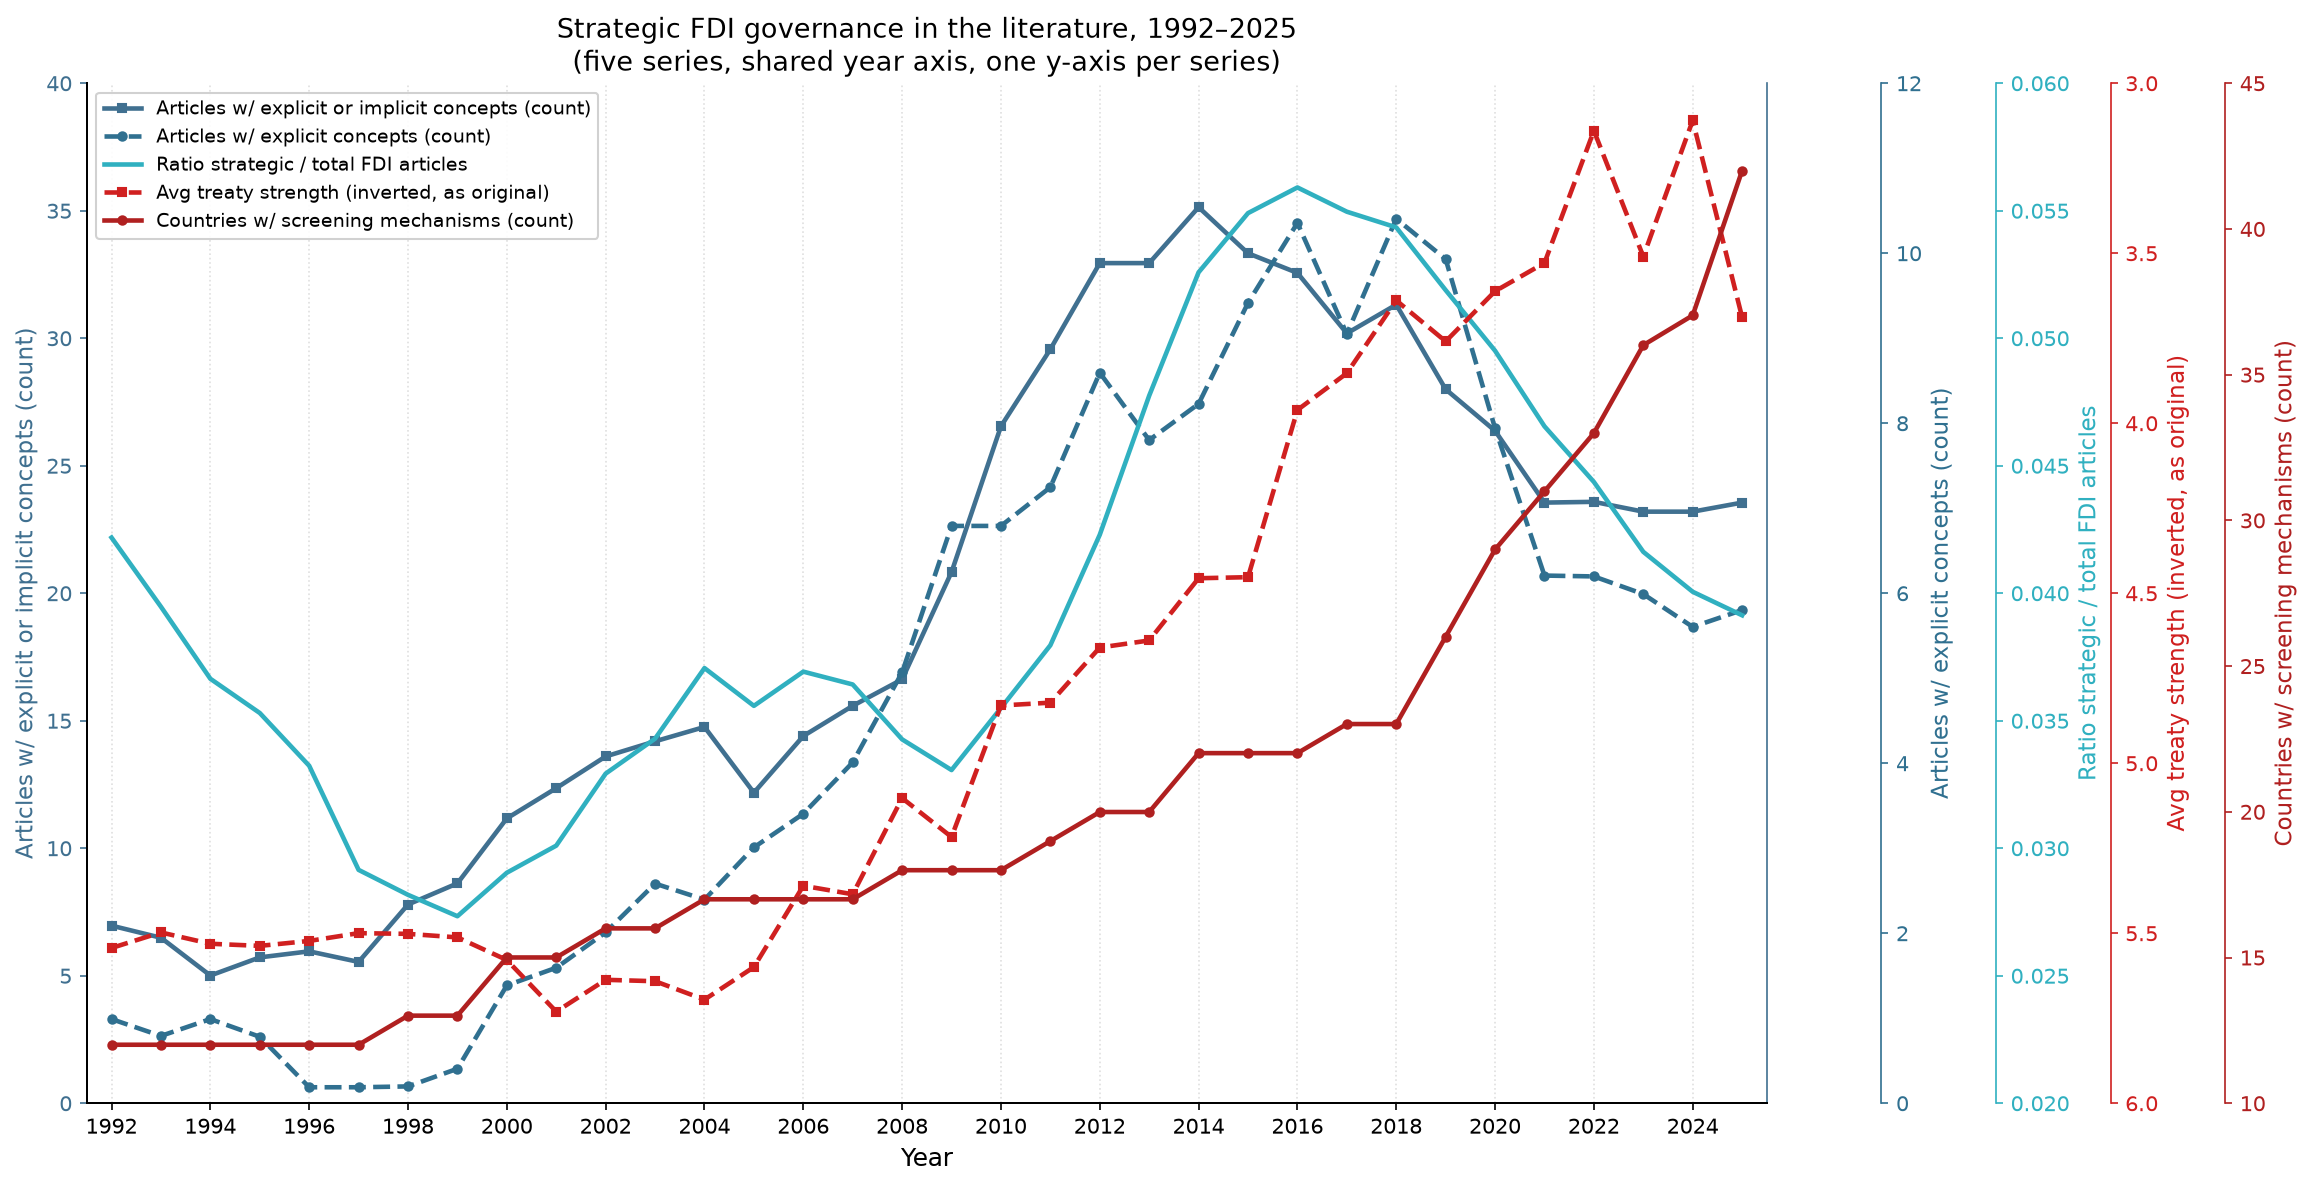
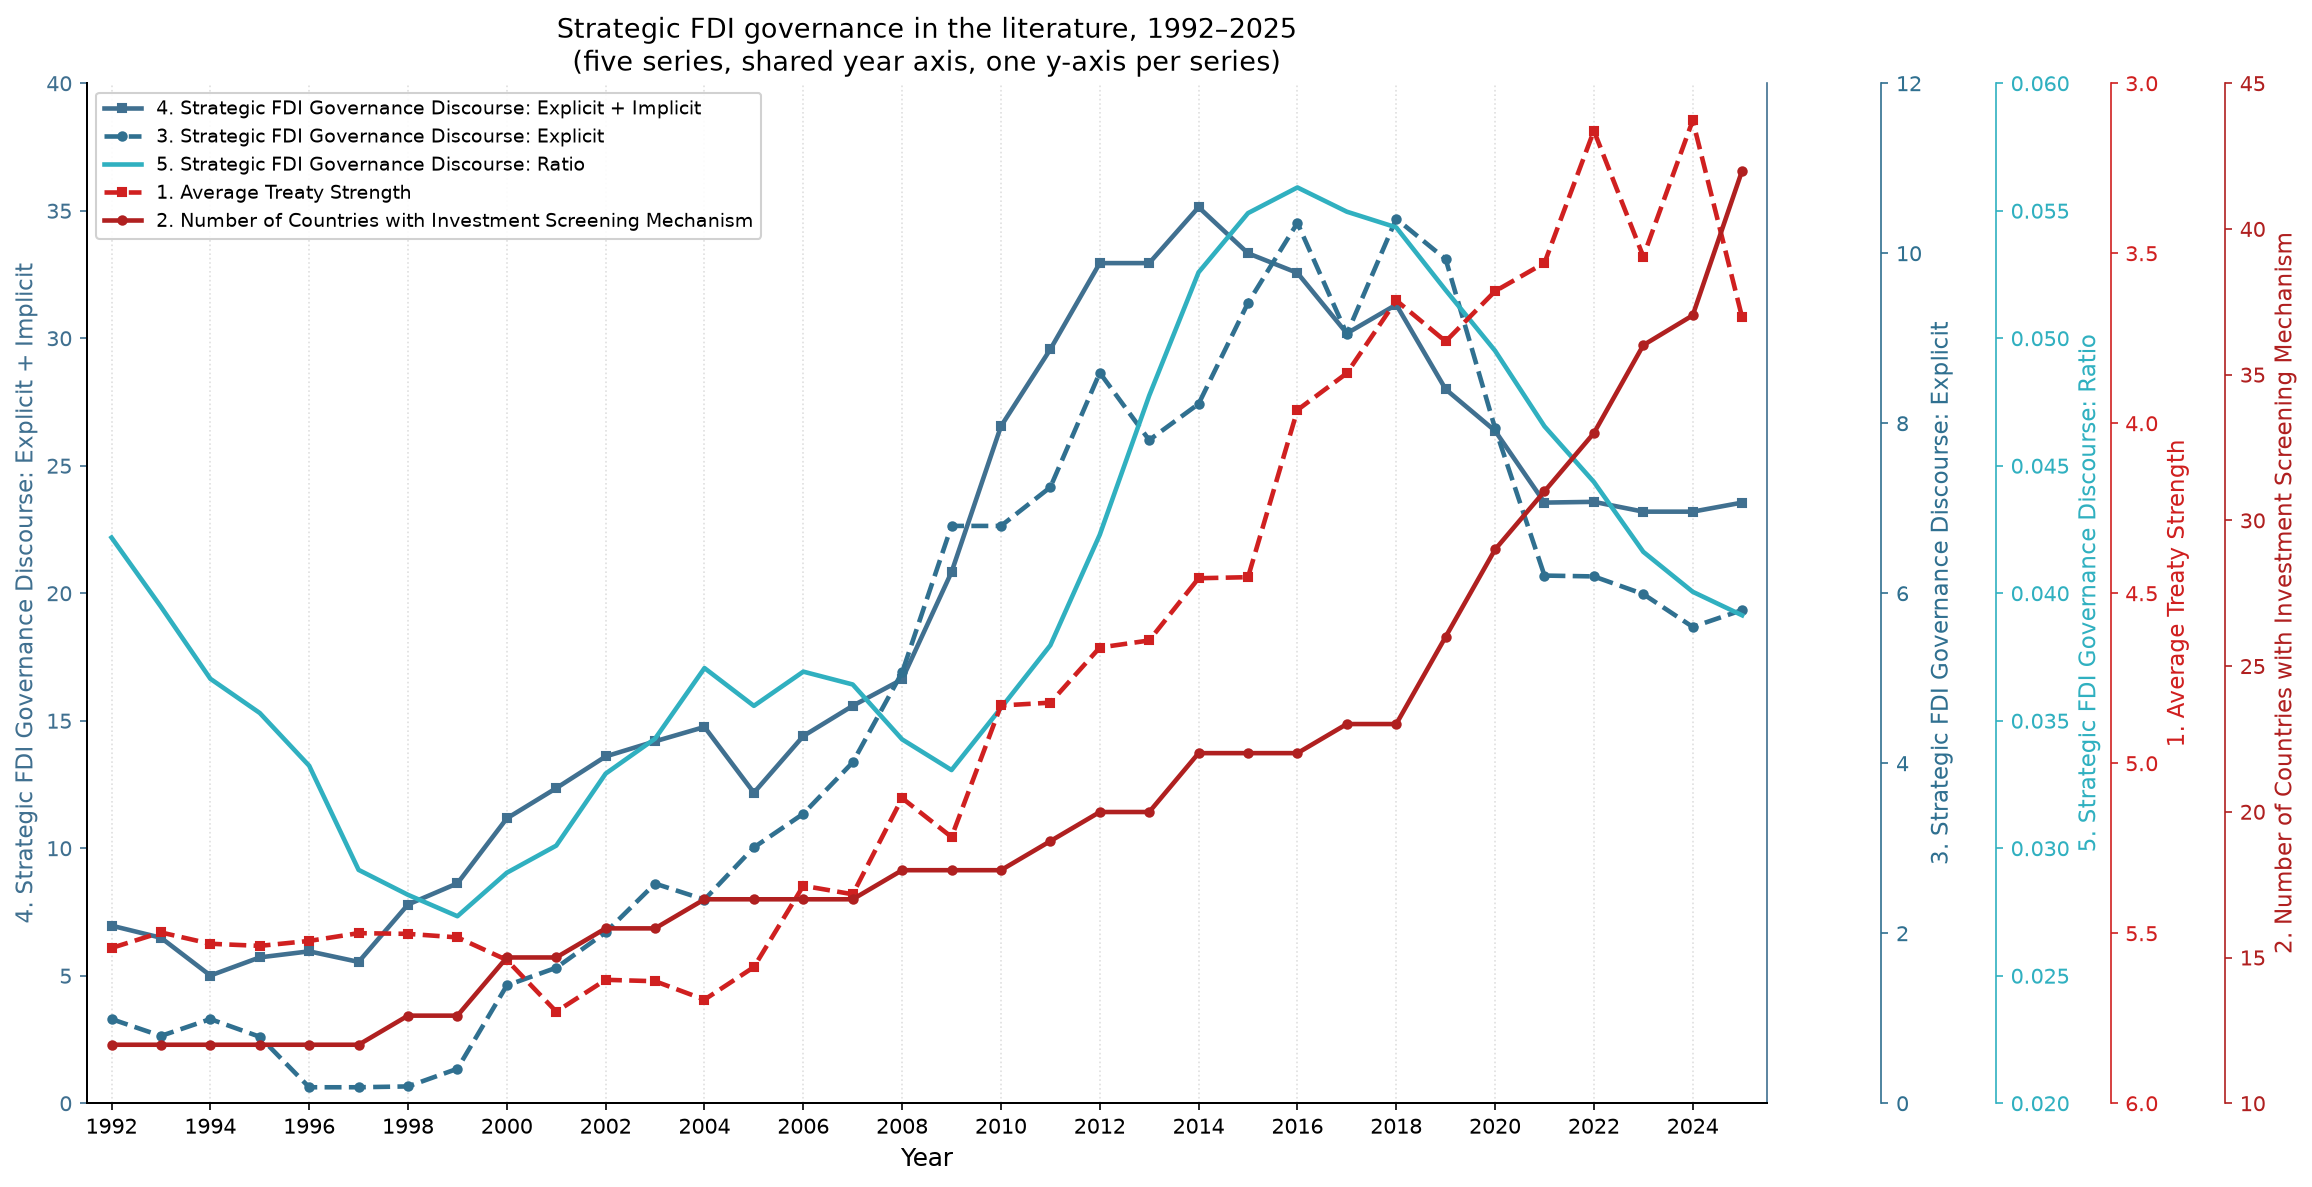
Rename y-axis and legend labels to numbered series names

diff --git a/plot_combined.py b/plot_combined.py
@@ -29,11 +29,11 @@ def plot_on(ax, key, label, linestyle, marker, ms):
     ax.tick_params(axis='y', colors=C[key])
     ax.spines['right'].set_color(C[key])
 
-plot_on(ax1, 'implicit', 'Articles w/ explicit or implicit concepts (count)', '-', 's', 4)
-plot_on(ax2, 'explicit', 'Articles w/ explicit concepts (count)', '--', 'o', 4)
-plot_on(ax3, 'ratio', 'Ratio strategic / total FDI articles', '-', '', 0)
-plot_on(ax4, 'treaty', 'Avg treaty strength (inverted, as original)', '--', 's', 4)
-plot_on(ax5, 'screening', 'Countries w/ screening mechanisms (count)', '-', 'o', 4)
+plot_on(ax1, 'implicit', '4. Strategic FDI Governance Discourse: Explicit + Implicit', '-', 's', 4)
+plot_on(ax2, 'explicit', '3. Strategic FDI Governance Discourse: Explicit', '--', 'o', 4)
+plot_on(ax3, 'ratio', '5. Strategic FDI Governance Discourse: Ratio', '-', '', 0)
+plot_on(ax4, 'treaty', '1. Average Treaty Strength', '--', 's', 4)
+plot_on(ax5, 'screening', '2. Number of Countries with Investment Screening Mechanism', '-', 'o', 4)
 
 ax1.set_ylim(0, 40)
 ax2.set_ylim(0, 12)
@@ -47,7 +47,7 @@ ax1.set_xlabel('Year', fontsize=12)
 ax1.grid(True, axis='x', linestyle=':', alpha=0.4)
 ax1.spines['left'].set_color(C['implicit'])
 ax1.tick_params(axis='y', colors=C['implicit'])
-ax1.set_ylabel('Articles w/ explicit or implicit concepts (count)', color=C['implicit'], fontsize=11)
+ax1.set_ylabel('4. Strategic FDI Governance Discourse: Explicit + Implicit', color=C['implicit'], fontsize=11)
 
 h1, l1 = ax1.get_legend_handles_labels()
 handles, labels = h1, l1
